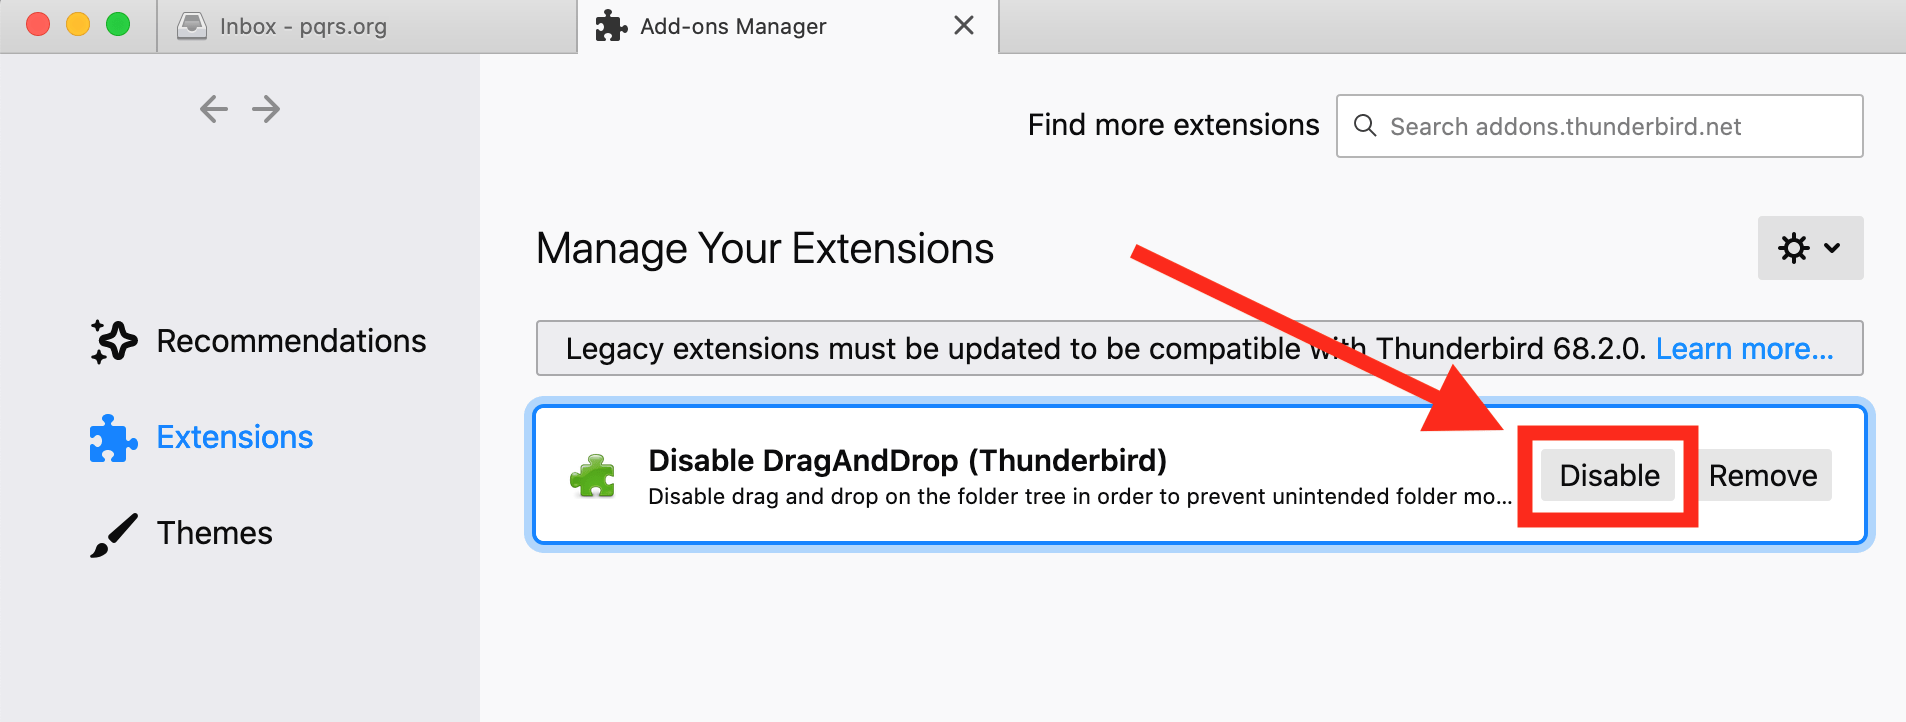
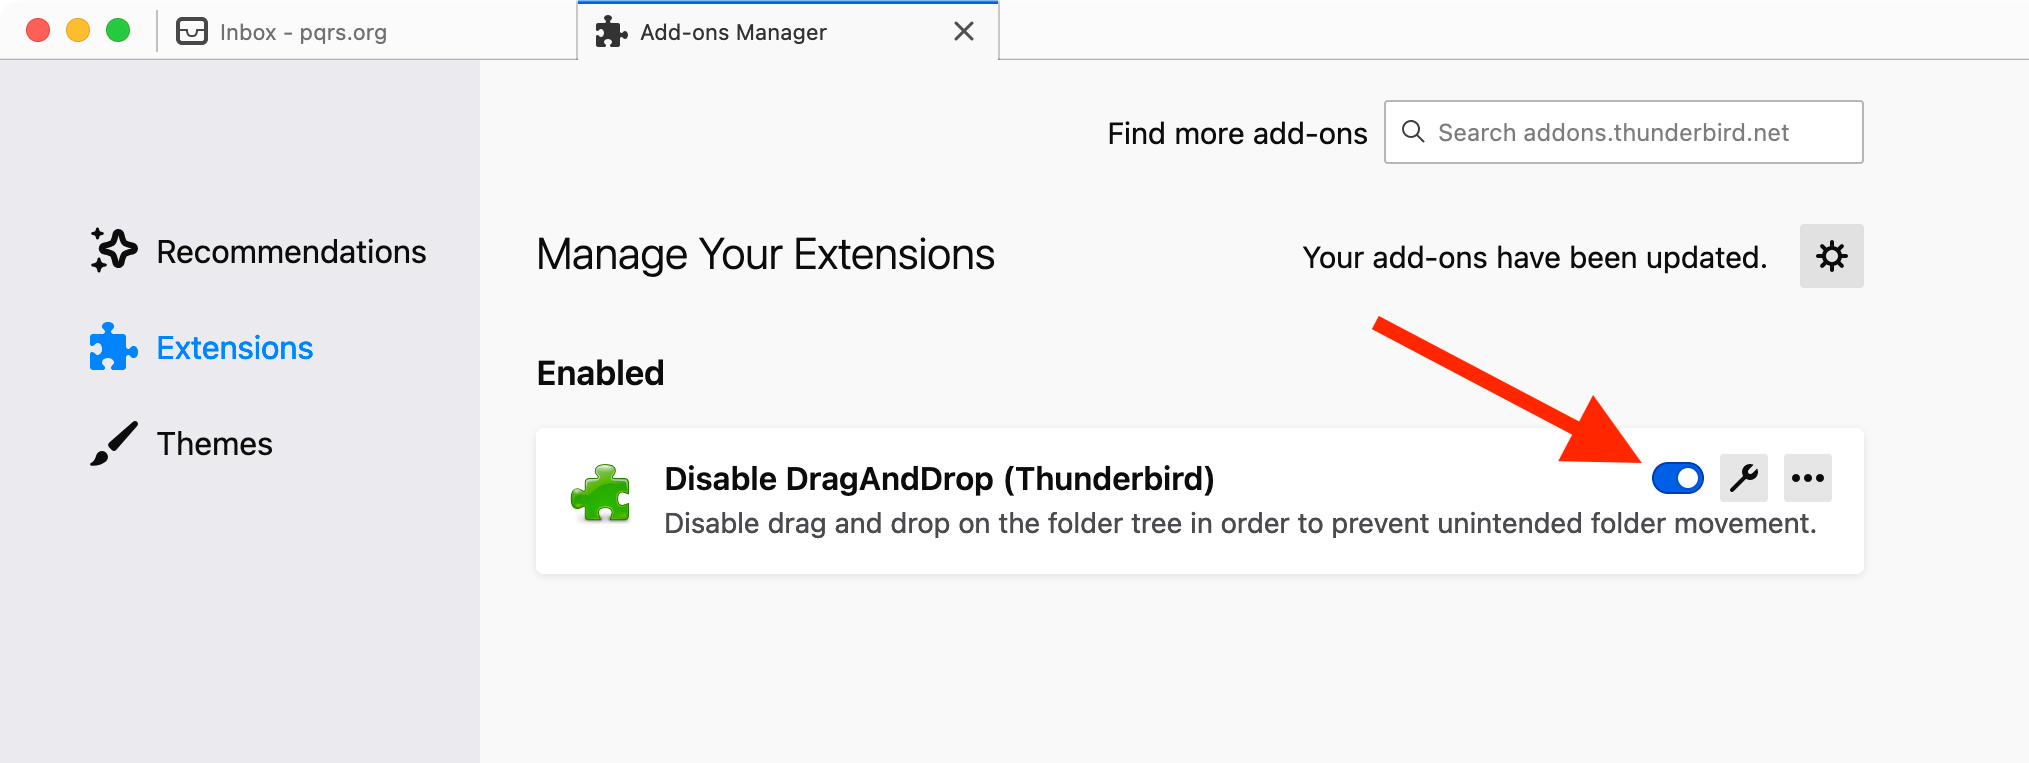
Update screen shot

diff --git a/sites/disable-draganddrop-tb/content/en/docs/help/disable-temporarily/index.md b/sites/disable-draganddrop-tb/content/en/docs/help/disable-temporarily/index.md
@@ -5,6 +5,5 @@ simple_list: true
 ---
 
 1.  Open Add-ons Manager on Thunderbird.
-2.  Press Disable button.
+2.  Turn off this add-on.
     {{< local-image src="images/disable-temporarily@2x.png" >}}
-3.  You can enable it again by pressing Enable button.
